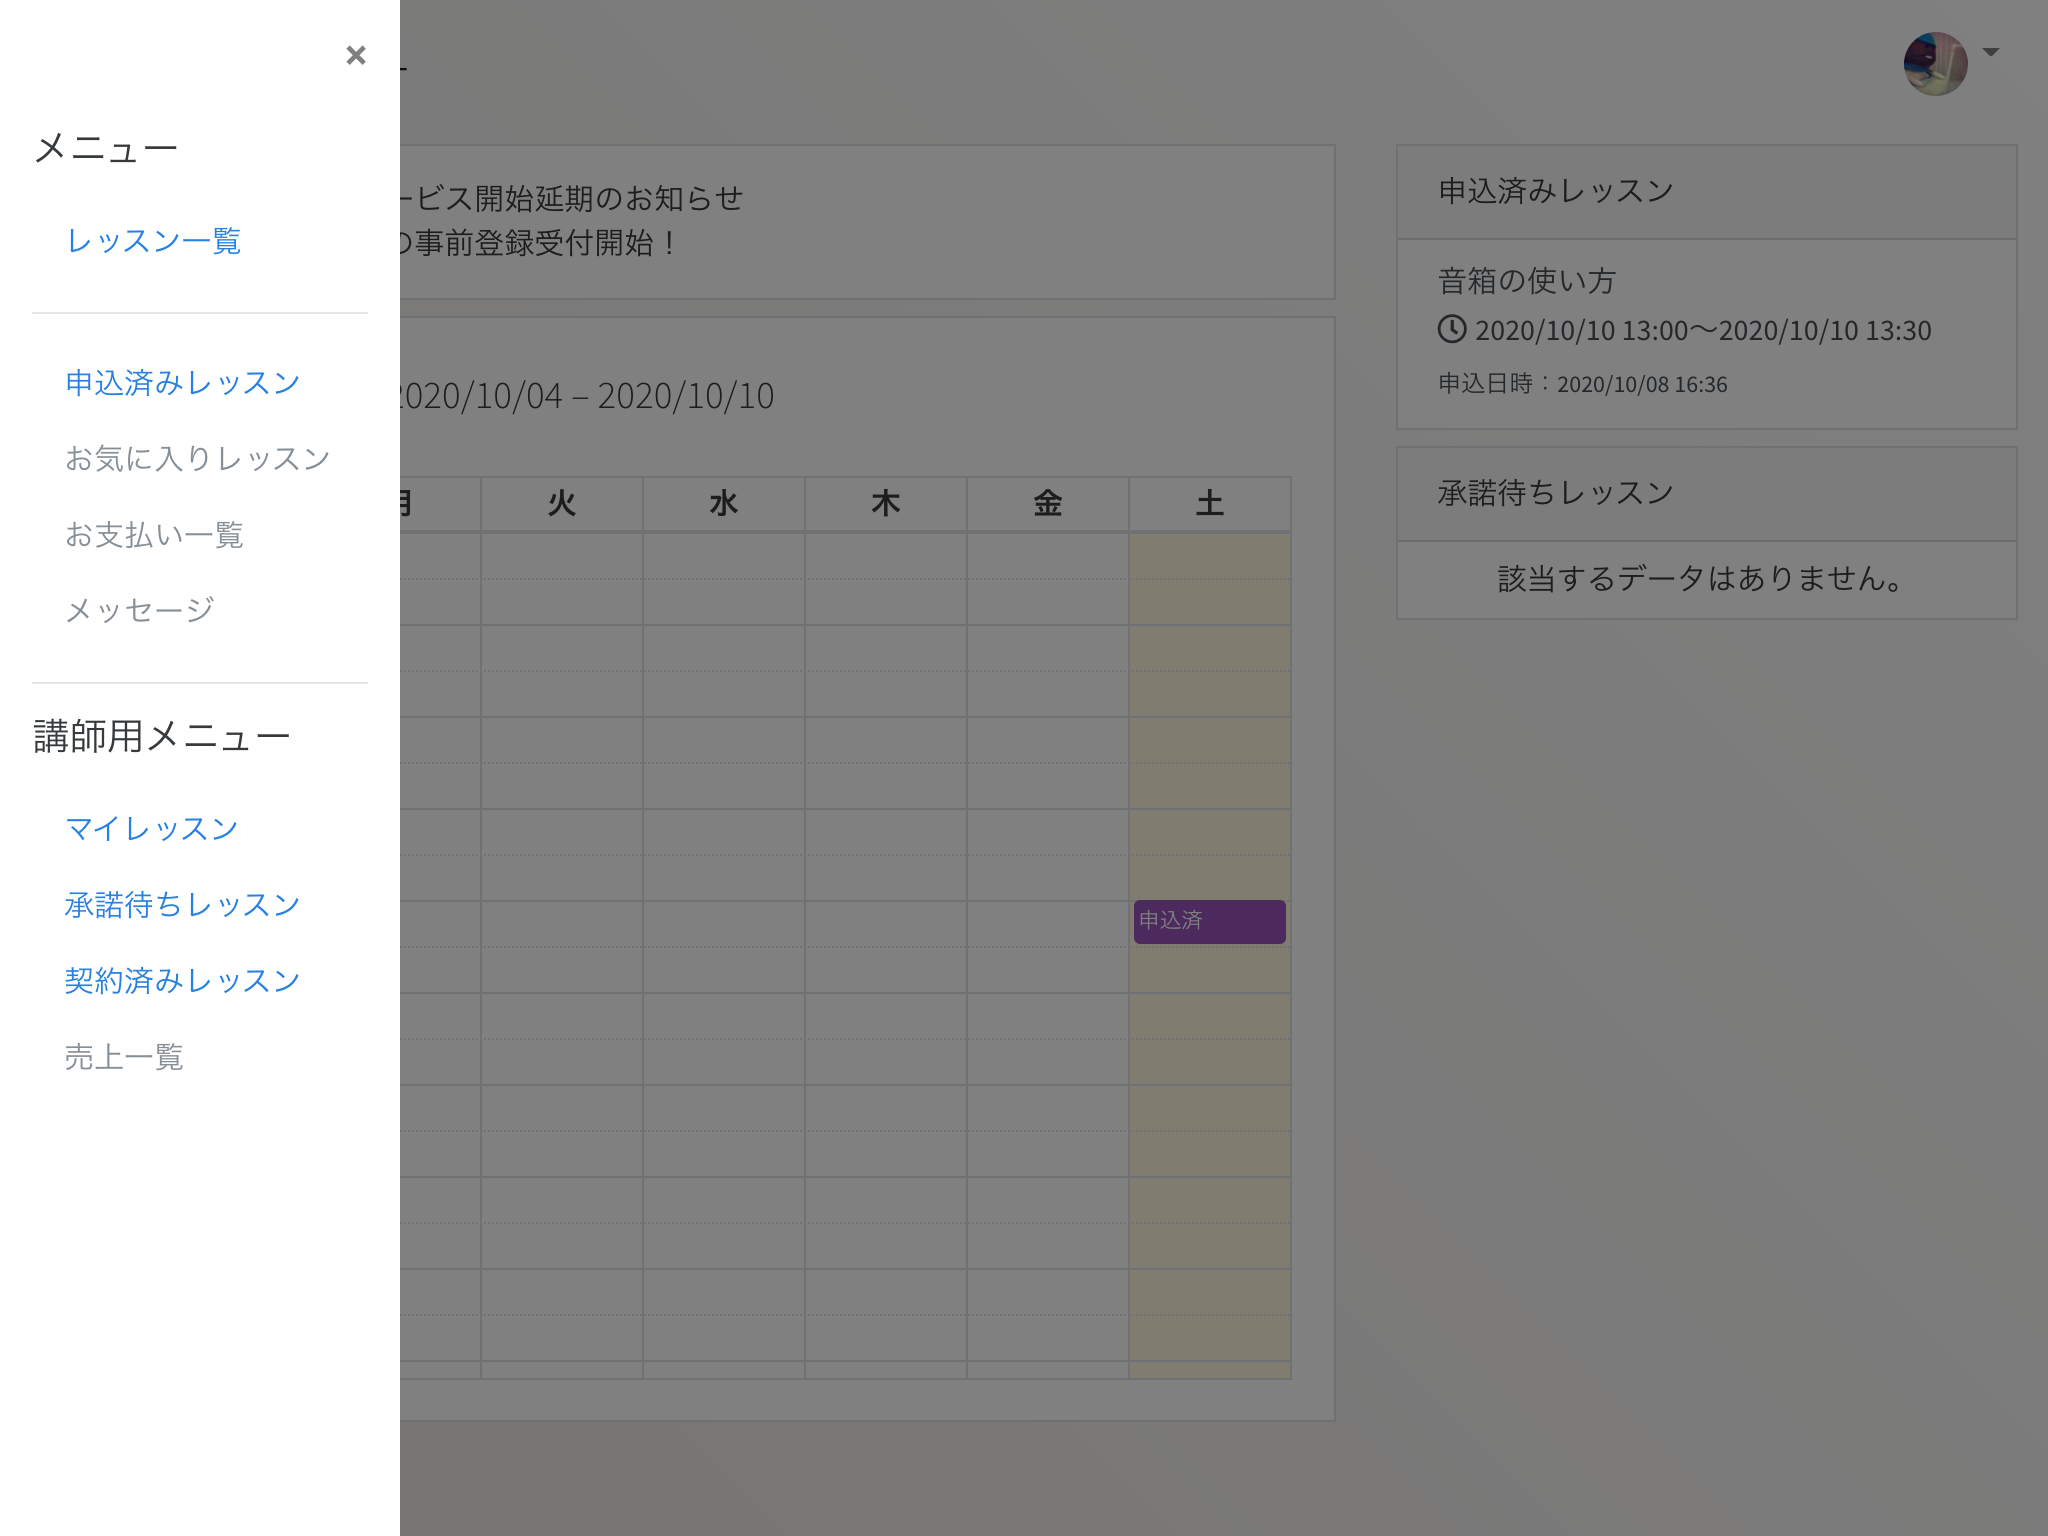
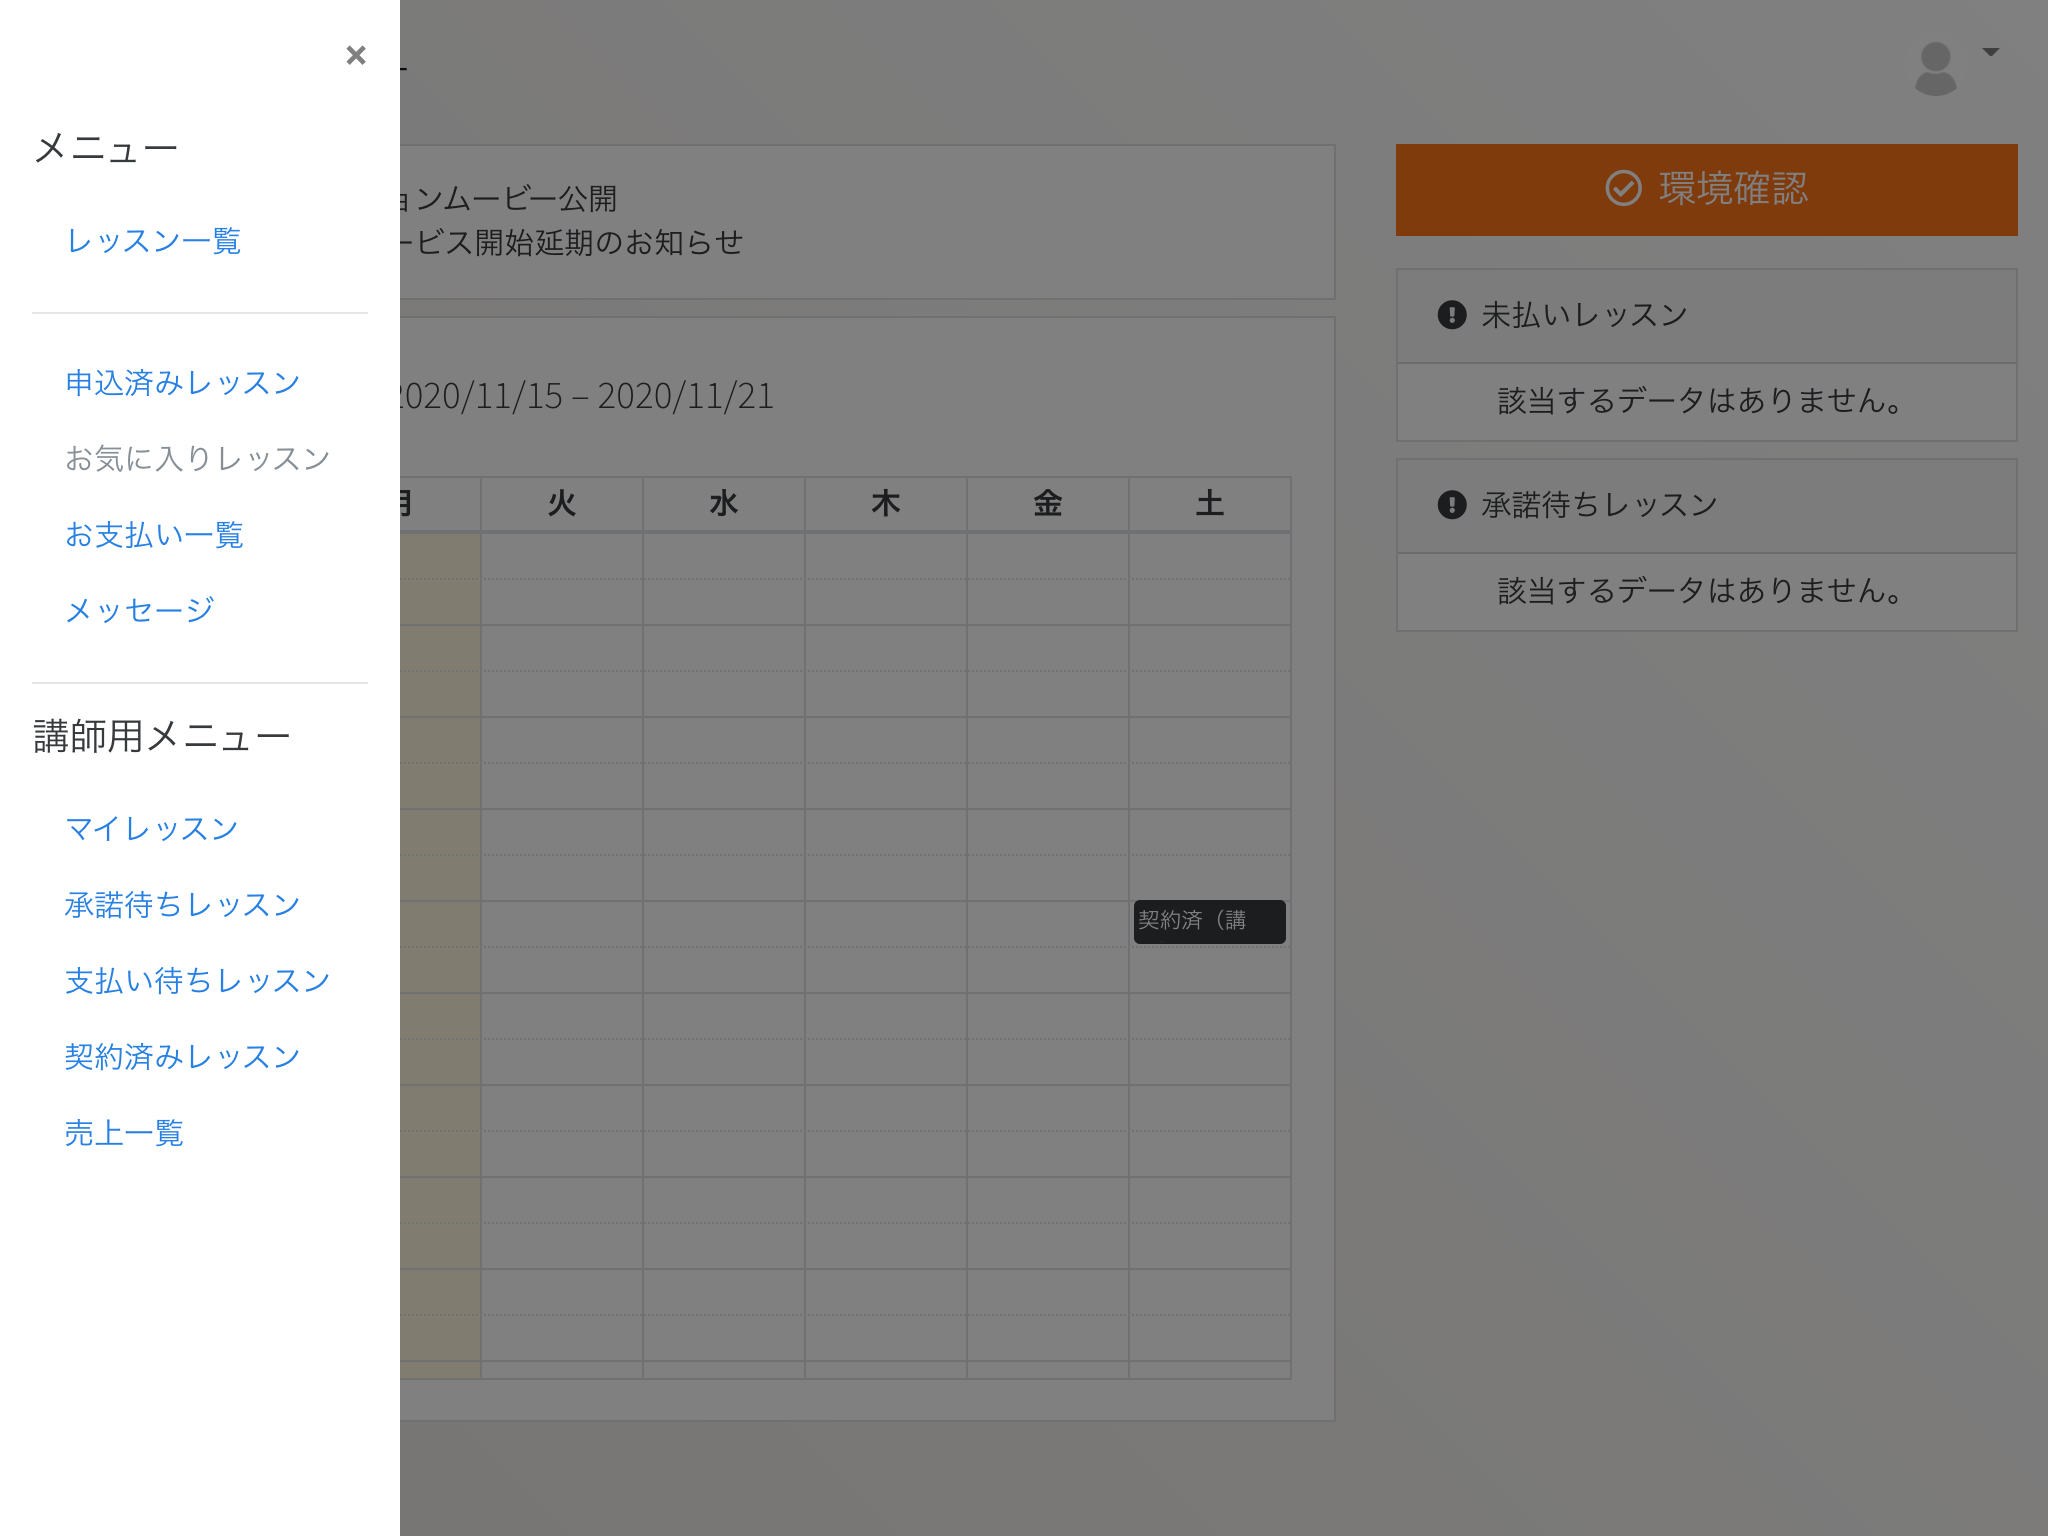
講師のレッスン実施マニュアルにお支払いについての説明を追加

diff --git a/pages/lesson_contract.md b/pages/lesson_contract.md
@@ -4,10 +4,8 @@
 
 1. 申し込みを受ける
 1. 申し込みを承諾する
-1. お支払いを確認する（*）
+1. お支払いを確認する
 1. レッスンを実施する
-
-(*) β版では決済機能はご利用いただけません。
 
 ## 申し込みを受ける
 
@@ -41,7 +39,7 @@
 
 ![](img/manage_dashboad_contract02.png)
 
-承諾済みレッスンから情報が消えて、契約済に変わります。
+承諾待ちレッスンから情報が消え、受講希望者のお支払いを待つことになります。
 
 ```{admonition} 注意事項
 :class: warning
@@ -50,7 +48,28 @@
 
 ## お支払いを確認する
 
-β版では決済機能はご利用いただけません。
+画面左上のハンバーガーメニューをクリックしてください。
+
+![メニュー](img/menu_button.png)
+
+画面左側にメニューリンクが表示されます。
+
+![](img/instructor_menu.png)
+
+メニューの中にある『支払い待ちレッスン』をクリックすると、支払い待ちレッスン一覧画面に移動します。
+
+![](img/manage_agreements.png)
+
+承諾したレッスンのうち、お支払いがされていないレッスンの情報を確認することができます。
+
+```{admonition} 注意事項
+:class: warning
+お支払いはレッスン当日の開始時間前まで可能です。期日を過ぎた場合は受講生都合によるキャンセル扱いになります。メッセージなどを利用して、まめに連絡を取るようにしてください。
+```
+
+受講希望者のお支払いが完了したレッスンの情報は『契約済レッスン一覧』に表示されます。
+
+![](img/manage_contracts.png)
 
 ## レッスンを実施する
 
